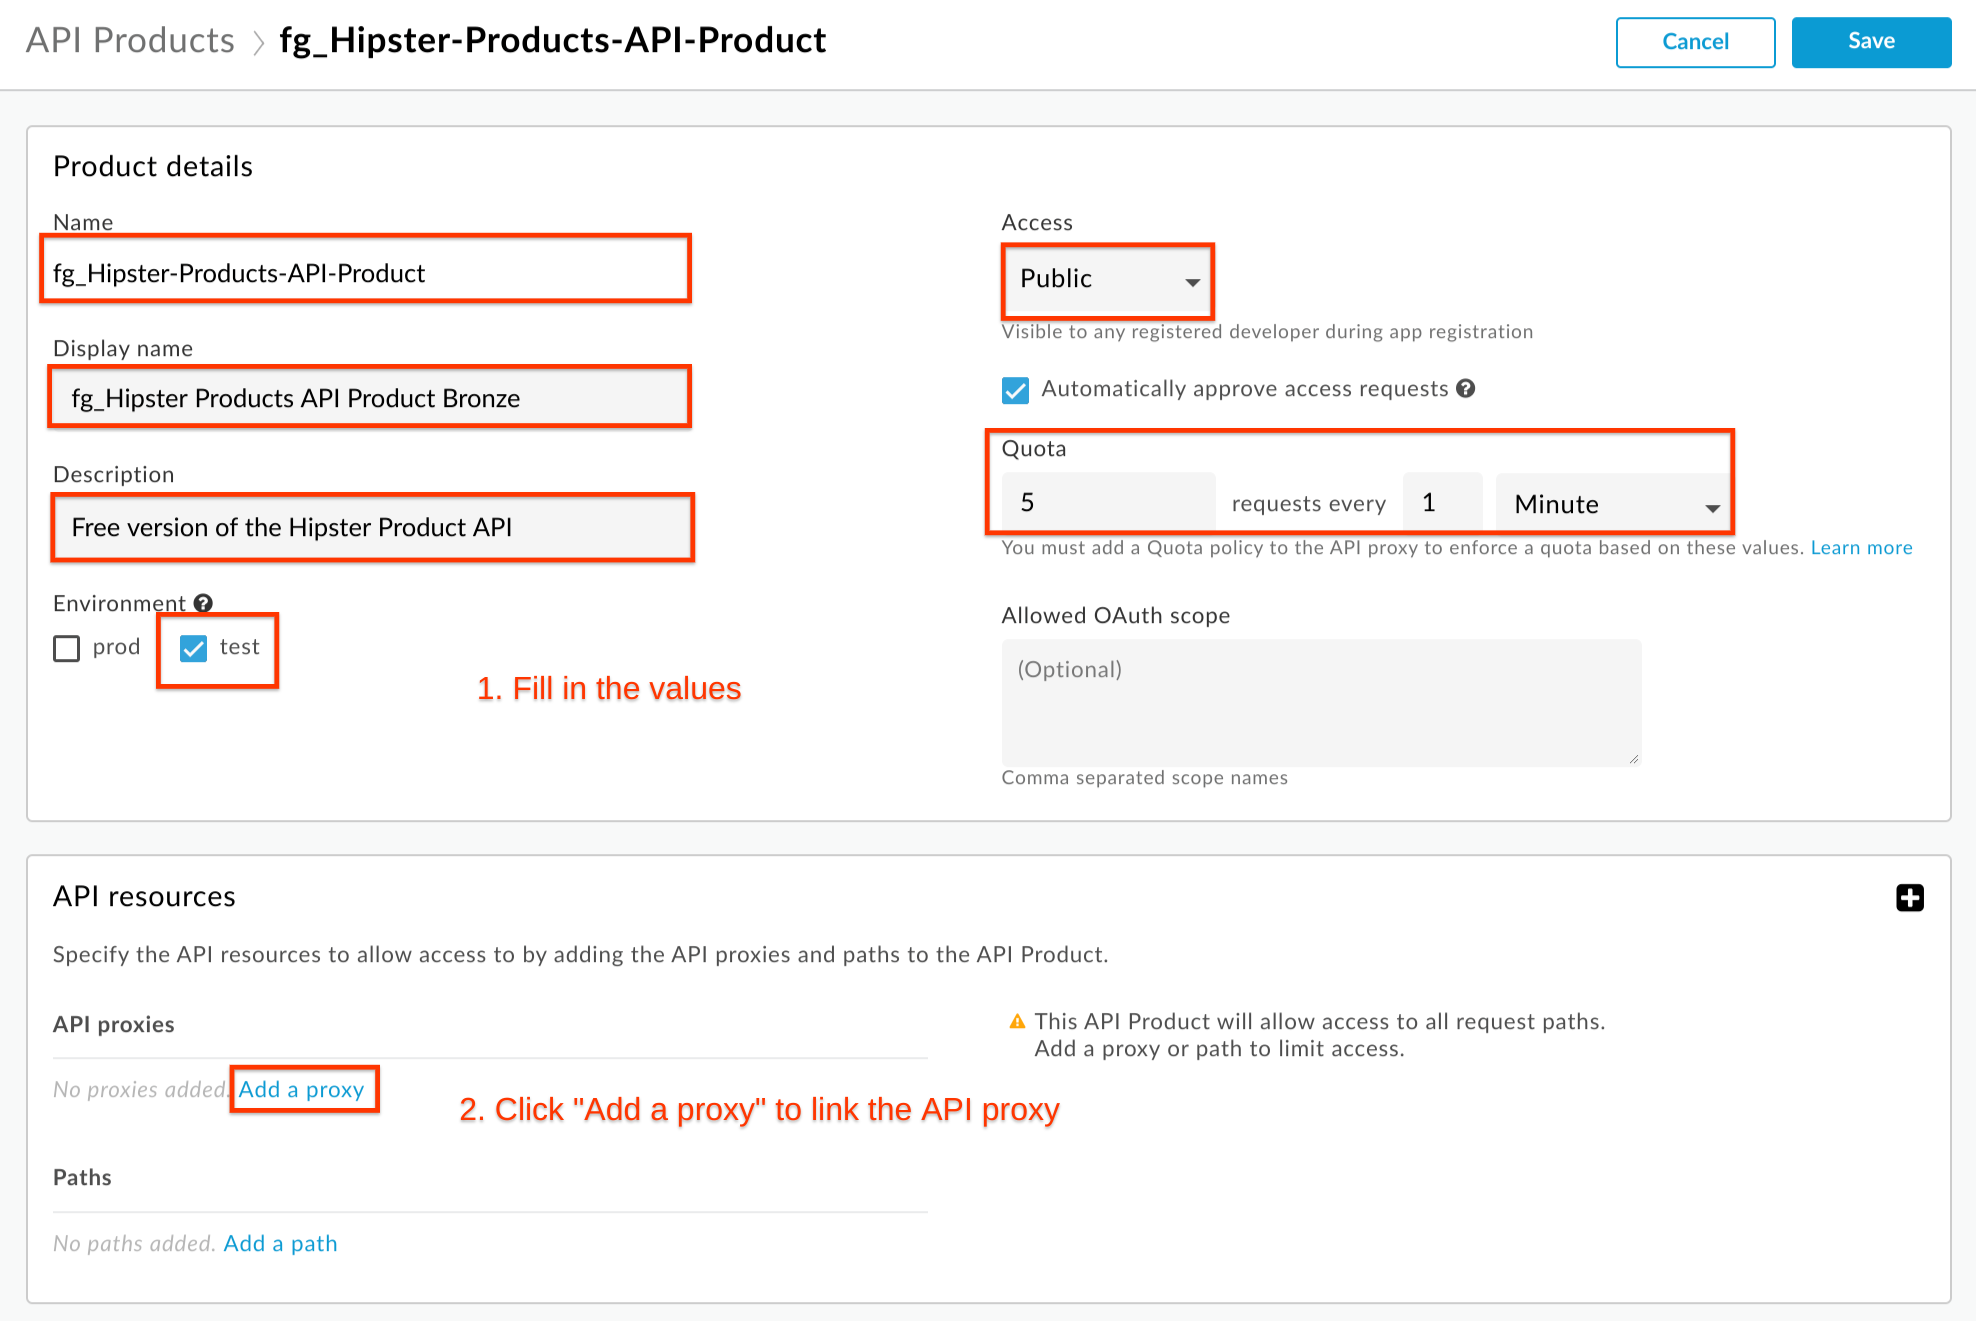
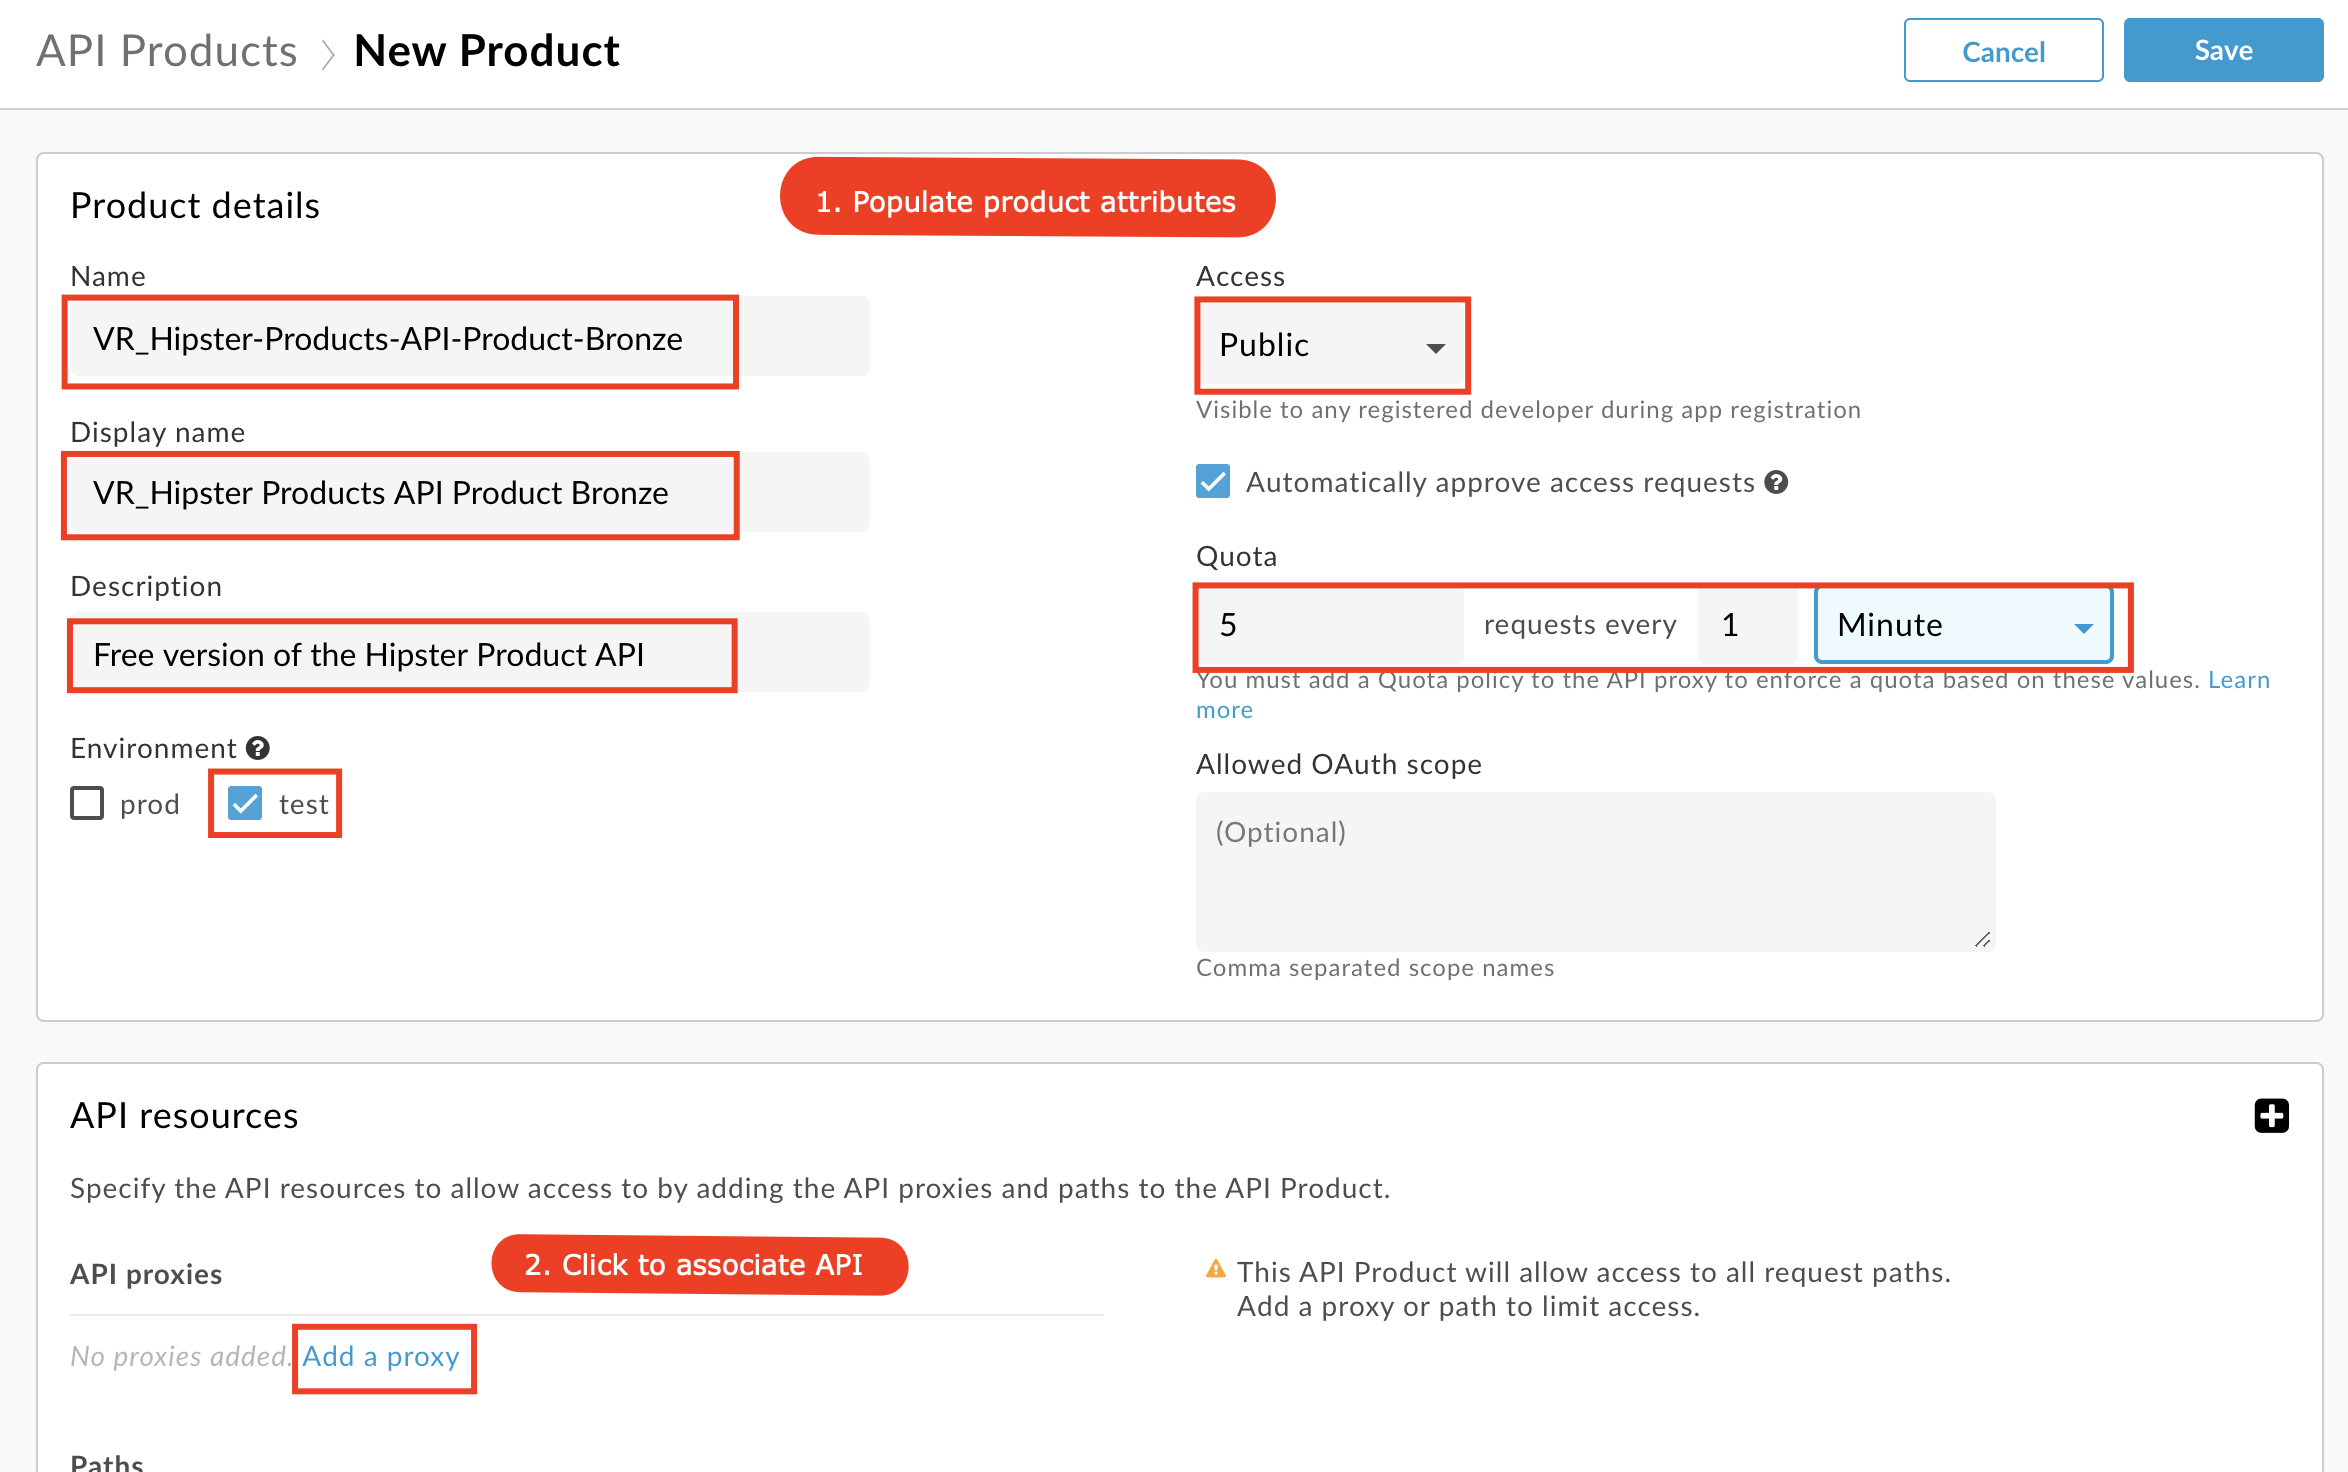
Changes to Lab 3

diff --git a/Module-1/Labs/Lab 3/README.md b/Module-1/Labs/Lab 3/README.md
@@ -38,7 +38,7 @@ In this lab we will create different API products that bundle the same API proxy
 
     * Section: Product details
 
-        * Name: {yourInitials}_Hipster-Products-API-Product
+        * Name: {yourInitials}_Hipster-Products-API-Product-Bronze
 
         * Display name: {yourInitials}_Hipster Products API Product Bronze
 
@@ -78,13 +78,13 @@ We now create 2 similar products that represent our Silver and Gold Products wit
 
         * Display name: {yourInitials}_Hipster Products API Product Silver
 
-        * Description: Free version of the Hipster Product API
+        * Description: Basic version of the Hipster Product API
 
         * Environment: test
 
         * Access: Public
 
-        * Quota: **5** requests every **1 Minute**
+        * Quota: **20** requests every **1 Minute**
 
     * Section: API resources
 
@@ -106,7 +106,7 @@ We now create 2 similar products that represent our Silver and Gold Products wit
 
         * Access: Public
 
-        * Quota: **9000** requests every **1 Minute**
+        * Quota: **1000** requests every **1 Minute**
 
     * Section: API resources
 

diff --git a/Module-1/Labs/Lab 4/README.md b/Module-1/Labs/Lab 4/README.md
@@ -14,7 +14,7 @@ Apigee Edge provides multiple options for your Developer Portal. Apigee supports
 
 ## Developer Programs, Teams and Audience Management
 
-On Apigee Edge, a Developer Program is the configuration set associated to each Developer Portal - specifically, App Developer accounts, App Developer identity management configuration, App Developer Teams, and Audience configuration for access to content published on the portal.
+On Apigee Edge, a [Developer Program](https://docs.apigee.com/api-platform/publish/portal/intro-developer-program) is the configuration set associated to each Developer Portal - specifically, App Developer accounts, App Developer identity management configuration, App Developer Teams, and Audience configuration for access to content published on the portal.
 
 App Developers have the option of creating [Teams](https://docs.apigee.com/api-platform/publish/portal/developer-teams) to share responsibility for an app with other developers. Each developer within a Team is assigned a role (`Owner`, `App Admin` or `Viewer` ) that defines their access level to the shared apps.
 
